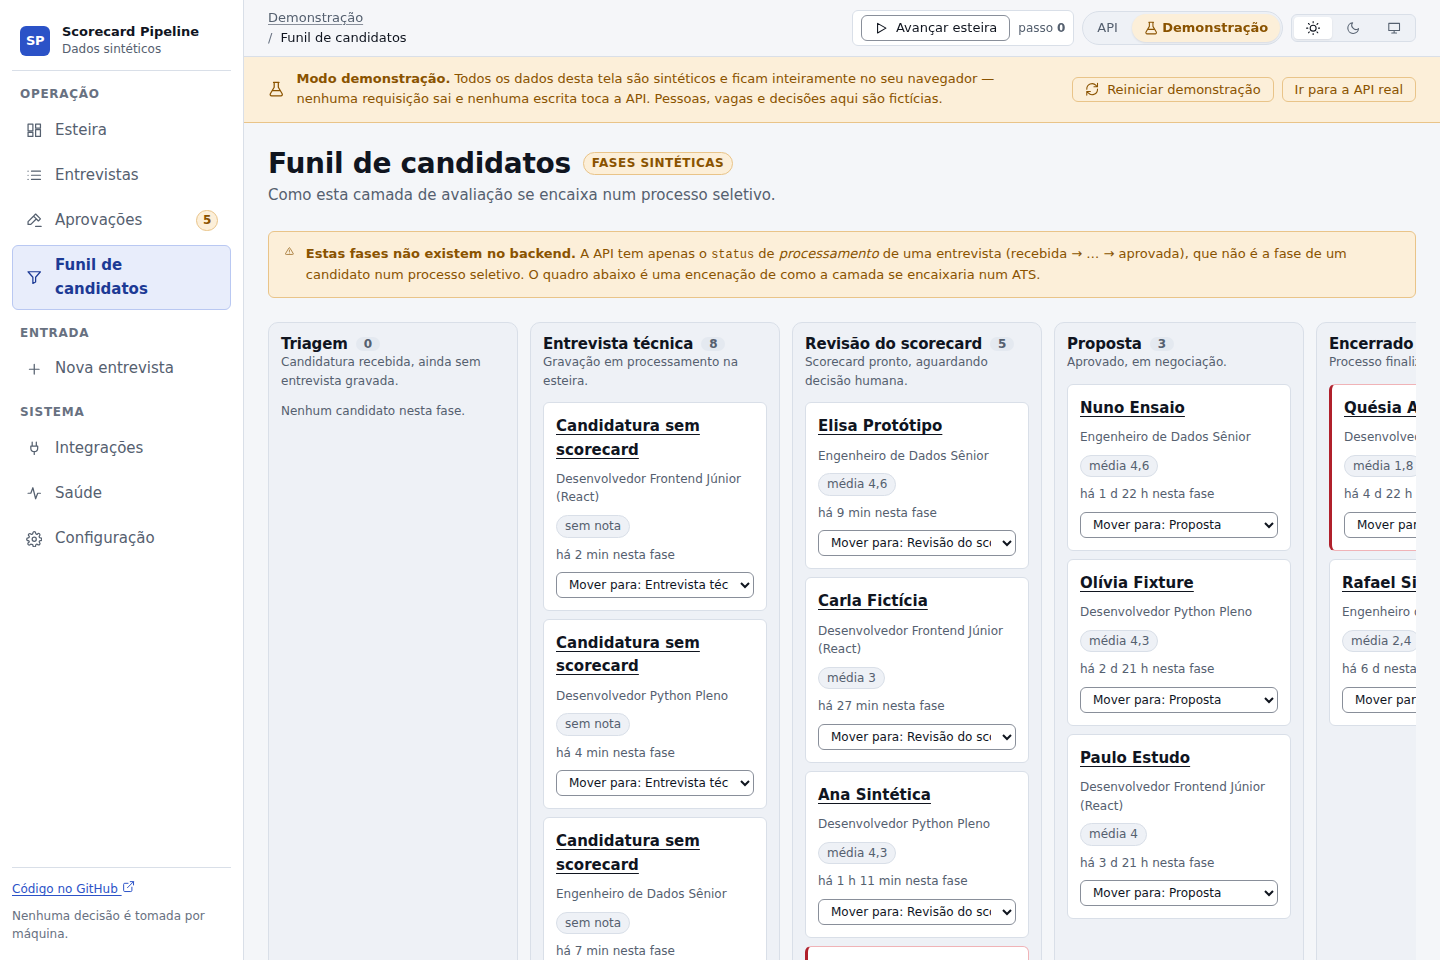
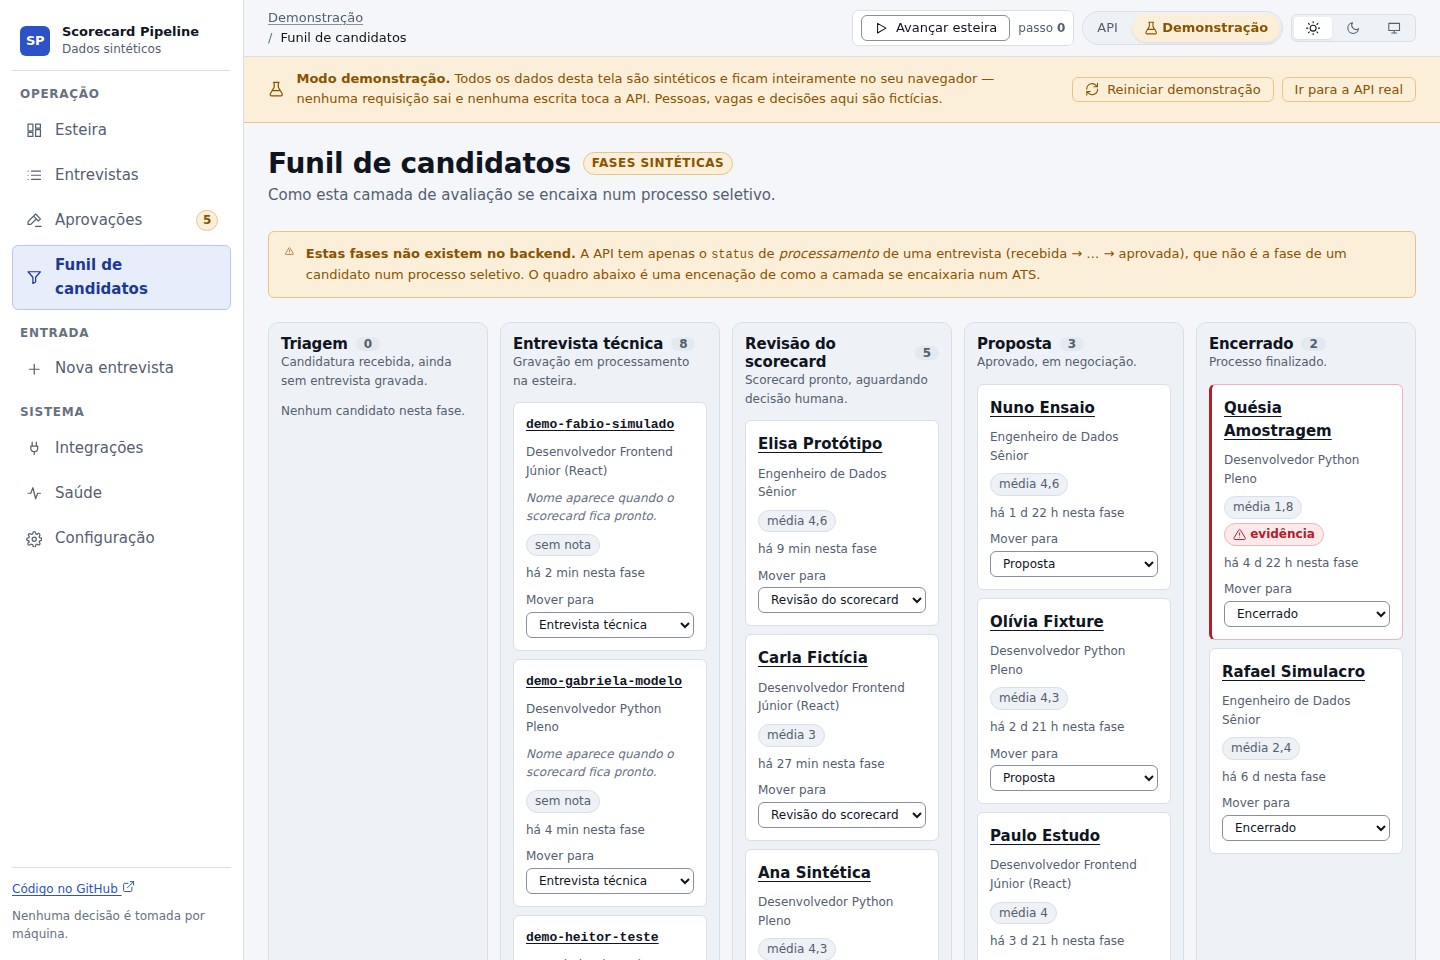
feat(frontend): publica o modo demo no GitHub Pages e reforça a galeria do README
O objetivo é que alguém entenda o produto sem clonar nada. Duas mudanças:

- Workflow de Pages publicando o bundle. Hospedar é seguro porque o modo
  demonstração não faz E/S de rede e não embarca credencial: é um estático
  com dataset sintético. base: './' já fazia os assets resolverem em
  subpath, e o 404.html preserva deep link no hash router.
- Galeria do README em largura total, por tela, em vez de uma tabela de duas
  colunas que espremia as imagens.

Corrige também três defeitos reais do funil, encontrados ao revisar as
capturas: a última coluna ficava cortada (colunas de 250px não cabiam em
1440), cartões sem scorecard apareciam todos como 'Candidatura sem
scorecard', e o select de fase truncava o texto.

Changed region(s): [[0.3438, 0.3438, 1.0, 1.0], [0.1875, 0.375, 0.2812, 0.4062]]

diff --git a/frontend/src/features/funnel/FunnelView.tsx b/frontend/src/features/funnel/FunnelView.tsx
@@ -137,10 +137,17 @@ function CandidateCard({
 }) {
   const selectId = useId();
 
+  // Before scoring there is no candidate name, because the name comes out of
+  // the model's scorecard. Falling back to the interview id keeps each early
+  // card distinguishable, instead of a column of identical placeholders. The
+  // id is not shortened here — CSS truncates it to the column width, which
+  // suits both a UUID and a demo slug.
+  const label = card.candidateName ?? card.interviewId;
+
   return (
     <li className={`fcard ${card.evidenceAlert ? 'fcard--flagged' : ''}`}>
       <a
-        className="fcard__name"
+        className={`fcard__name ${card.candidateName === null ? 'fcard__name--id' : ''}`}
         href={hrefFor({
           mode: route.mode,
           name: 'interview',
@@ -148,9 +155,12 @@ function CandidateCard({
           clockAnchor: route.clockAnchor,
         })}
       >
-        {card.candidateName}
+        {label}
       </a>
       <p className="fcard__job">{card.jobTitle}</p>
+      {card.candidateName === null && (
+        <p className="fcard__pending">Nome aparece quando o scorecard fica pronto.</p>
+      )}
 
       <div className="fcard__signals">
         <span className="chip chip--muted">
@@ -167,17 +177,23 @@ function CandidateCard({
       <p className="fcard__age">há {formatDuration(now - card.enteredStageAt)} nesta fase</p>
 
       <div className="fcard__move">
-        <label htmlFor={selectId} className="sr-only">
-          Mover {card.candidateName} para outra fase
+        {/* A visible "Mover para" label keeps the option text short enough to
+            read; prefixing every option truncated them in a narrow column. */}
+        <label htmlFor={selectId} className="fcard__move-label">
+          Mover para
         </label>
+        <span className="sr-only" id={`${selectId}-ctx`}>
+          Fase de {label} no funil
+        </span>
         <select
           id={selectId}
+          aria-describedby={`${selectId}-ctx`}
           value={card.stageId}
           onChange={(event) => onMove(card.interviewId, event.target.value)}
         >
           {stages.map((stage) => (
             <option key={stage.id} value={stage.id}>
-              Mover para: {stage.label}
+              {stage.label}
             </option>
           ))}
         </select>

diff --git a/frontend/src/styles/components.css b/frontend/src/styles/components.css
@@ -1743,7 +1743,10 @@ input::placeholder {
 .board {
   display: grid;
   grid-auto-flow: column;
-  grid-auto-columns: minmax(250px, 1fr);
+  /* 210px lets all five stages fit a 1440px laptop without horizontal
+     scrolling; the board still scrolls when there are more stages or less
+     room. */
+  grid-auto-columns: minmax(210px, 1fr);
   /* Same min-width:auto trap: without this the flex parent lets the board
      grow past the viewport instead of engaging its own scroller. */
   min-width: 0;
@@ -1759,6 +1762,28 @@ input::placeholder {
   border: var(--border-w) solid var(--border);
   border-radius: var(--radius);
   background: var(--surface-2);
+}
+/* Truncate by available width rather than a fixed character count: a real
+   interview id is a UUID and a demo id is a slug, and 8 characters is
+   useless for the latter. */
+.fcard__name--id {
+  display: block;
+  overflow: hidden;
+  text-overflow: ellipsis;
+  white-space: nowrap;
+  font-family: var(--font-mono);
+  font-size: var(--fs-sm);
+}
+.fcard__pending {
+  font-size: var(--fs-xs);
+  color: var(--text-faint);
+  font-style: italic;
+}
+.fcard__move-label {
+  display: block;
+  margin-bottom: 2px;
+  font-size: var(--fs-xs);
+  color: var(--text-muted);
 }
 .board__title {
   display: flex;

diff --git a/frontend/src/data/source.ts b/frontend/src/data/source.ts
@@ -73,7 +73,13 @@ export interface FunnelStage {
 
 export interface FunnelCard {
   interviewId: string;
-  candidateName: string;
+  /**
+   * `null` until the scorecard exists — the name is produced by the model,
+   * not supplied at ingestion, so before scoring there is genuinely no name
+   * to show. The UI falls back to the interview id rather than repeating a
+   * placeholder that makes every early-stage card look identical.
+   */
+  candidateName: string | null;
   jobId: string | null;
   jobTitle: string;
   stageId: string;

diff --git a/frontend/src/demo/dataset.ts b/frontend/src/demo/dataset.ts
@@ -501,7 +501,7 @@ export function buildFunnelCards(
 
     return {
       interviewId: interview.id,
-      candidateName: interview.scorecard?.candidate_name ?? 'Candidatura sem scorecard',
+      candidateName: interview.scorecard?.candidate_name ?? null,
       jobId: interview.job_id,
       jobTitle: profile?.title ?? interview.job_id ?? '—',
       stageId: stageById[interview.id] ?? 'triagem',

diff --git a/README.md b/README.md
@@ -326,6 +326,13 @@ It is the review surface for the pipeline: where each interview is, what needs
 a human, and — the point of the whole system — an unmissable alarm when the
 model cited a sentence that is not in the transcript.
 
+> **▶ Try it live, no clone and no backend required:**
+> **<https://luccapinto.github.io/scorecard-pipeline/#/demo/esteira>**
+>
+> That link opens the SPA in **demonstration mode**: a synthetic, deterministic
+> dataset that runs entirely in your browser. No request leaves the page, so
+> there is nothing to install and nothing to configure.
+
 ![Pipeline dashboard](docs/assets/esteira.png)
 
 ### Two modes, never mixed
@@ -351,17 +358,75 @@ ports the normalisation rule from `app/text_utils.py::clean_text` and actually
 searches the transcript, so a flagged quote is flagged because it genuinely is
 not there.
 
-### Screens
+### The screens
 
-| | |
+#### The scorecard, and the alarm the whole system exists for
+
+Each competency shows its 1–5 score **and the BARS anchor text behind it** —
+the number alone means nothing. When a citation cannot be found in the
+transcript, the card becomes a loud, structural alert: icon, wording, border
+and position, never colour alone. It also shows the closest passage the search
+*did* find, so the reviewer can judge rather than just be warned.
+
+![Scorecard with two unverified citations](docs/assets/entrevista-alerta.png)
+
+Clicking a citation scrolls to it in the transcript and highlights it in place.
+
+#### The approval queue
+
+Ordered by waiting time, with everything needed to decide visible without
+opening the item: role, the model's recommendation, the average score, and how
+many citations were actually located. **There is no bulk approval**, by design —
+not even in the demo.
+
+![Approval queue](docs/assets/aprovacoes.png)
+
+#### Integrations and messages
+
+A faithful rendering of the Slack Block Kit payload `app/notifications.py`
+actually builds — including the per-competency verification marker and the
+omission of the action buttons when there is no approval token — with the raw
+JSON one click away.
+
+![Integrations and Slack preview](docs/assets/integracoes.png)
+
+#### The candidate funnel — labelled as synthetic, on the screen
+
+This is the "ATS" view, and it is the clearest example of the honesty rule:
+hiring phases do not exist in the backend, so the screen says so in a banner
+before showing anything.
+
+![Candidate funnel](docs/assets/funil.png)
+
+#### Failures, and getting out of them
+
+`error_log` is a full Python traceback. It is split into what broke and where,
+with the frames folded away until asked for, plus the reprocess action.
+
+![Failed interview with traceback](docs/assets/falha.png)
+
+#### Ingestion, with the contract made legible
+
+The exact webhook request, the HMAC signature marked as server-side only,
+idempotency via `external_id`, and `202` explained as acceptance rather than
+completion.
+
+![Ingestion and webhook inspector](docs/assets/ingestao.png)
+
+#### Both themes are designed, and it works on a phone
+
+Dark is an independently chosen palette, not a filter over light, and every
+colour pair in both themes is checked against WCAG AA in CI.
+
+| Dark theme | Mobile, 390 px |
 | --- | --- |
-| ![Scorecard with unverified evidence](docs/assets/entrevista-alerta.png) **Scorecard.** Each competency shows its 1–5 score *and the BARS anchor text behind it*. An unverified citation is a loud, structural alarm — never colour alone — and the panel shows the closest passage the search did find. | ![Approval queue](docs/assets/aprovacoes.png) **Approval queue.** Ordered by waiting time, with everything needed to decide visible without opening the item. No bulk approval exists, by design. |
-| ![Integrations and messages](docs/assets/integracoes.png) **Integrations.** A faithful rendering of the Slack Block Kit payload `app/notifications.py` actually builds, plus the one-time decision link with the token marked as unobtainable. | ![Candidate funnel](docs/assets/funil.png) **Candidate funnel** (demo only). Labelled on the screen as synthetic, because hiring phases are not the pipeline's processing status. |
-| ![Failed interview](docs/assets/falha.png) **Failures.** The Python traceback is split into what broke and where, with the frames folded away, plus reprocessing. | ![Ingestion](docs/assets/ingestao.png) **Ingestion.** The exact webhook request, the HMAC signature marked as server-side only, idempotency via `external_id`, and `202` explained as acceptance rather than completion. |
-| ![Dark theme](docs/assets/esteira-escuro.png) **Both themes are designed**, not filtered — each is an independently chosen palette, and every colour pair is checked against WCAG AA in CI. | ![Mobile layout](docs/assets/esteira-mobile.png) **Responsive** from 360 px up, with the pipeline table usable on a phone. |
+| ![Dashboard in dark theme](docs/assets/esteira-escuro.png) | ![Dashboard on mobile](docs/assets/esteira-mobile.png) |
 
-Screenshots are generated by `frontend/scripts/screenshots.mjs` from demo mode,
-which is deterministic precisely so they can be reproduced.
+More screens — the interview list, observability and settings — are in
+[`docs/assets/`](docs/assets/).
+
+All screenshots are generated by `frontend/scripts/screenshots.mjs` from demo
+mode, which is deterministic precisely so they can be reproduced on any machine.
 
 ### Running it
 
